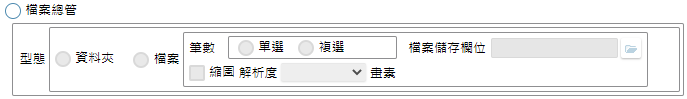
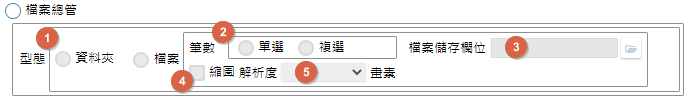
元件加註_開窗參照

diff --git a/8.10.2/IDE/Specification/OAPopup/README.md b/8.10.2/IDE/Specification/OAPopup/README.md
@@ -44,54 +44,173 @@
     * `(2)來源表格`
         * 用途說明
         * 規格說明
-            * 
-
-
-
-3-4-2. 來源表格: 依表單名稱, 顯示: 表單所用的.表頭檔區.邏輯表格料號(以下稱之:表單邏表料號)
-3-4-2. 過濾條件: 當表單料號有值時, 致能; 操作條件式通則, 限定:表單邏表料號
-3-4-3. 傳遞參數: 當表單料號有值時, 致能; 操作開窗傳遞參數通則, 限定:開啟表單料號
-3-4-3-1. 同名對應:
-依參數名稱比對元件名稱, 預設給同名元件
-無同名元件 或 給值內容不為空值, 給值類別、給值內容皆不異動
-有同名元件 且 給值內容為空值, 給值類型給值表單元件、給值內容給值同名元件
-3-4-4. 勾選方式:
-3-4-4-1. 勾選限制筆數選項: 單選/複選, 預設單選
-3-4-4-2. 限定勾選: 預設=false
-3-4-4-3. 新增初始值: 預設=false，勾選限制筆數=複選 ,才致能; 否則除能;
-3-4-5.勾選帶回欄位
-3-4-4-0. 開啟表單區塊: 開單啟選項=開啟表單, 才致能; 否則除能;
-3-4-4-1. 接收欄位: 挑選表單元件通則, 過濾:駐留表單料號。若元件的 (個資加密=true 且 個資解密=false) 或 密碼處理=true，則該元件顯示紅色字體
-3-4-4-2. 來源欄位: 挑選表單元件通則, 過濾:開啟表單料號。若元件的 (個資加密=true 且 個資解密=false) 或 密碼處理=true，則該元件顯示紅色字體
-3-4-4-3. 剃除已存: 勾選筆數=複選，才致能
-3-4-4-4. 主動更新:預設=false
-3-4-6.複寫資料表格
-3-4-6-0. 勾選筆數選項=複選, 才致能; 否則除能;
-3-4-6-1. 欄位名: 挑選表單元件通則, 過濾:駐留表單料號。若元件的 (個資加密=true 且 個資解密=false) 或 密碼處理=true，則該元件顯示紅色字體
+            * 無條件除能
+            * 依`(1)表單名稱`所挑選的表單帶入相對應的資料區檢視表
+                * 當`表單類型`不為條件多筆, 則顯示表頭資料區的檢視表; 否則顯示表身資料區的檢視表
+    * `(3)過濾條件`
+        * 用途說明
+        * 規格說明
+            * 當`視窗內容`=開啟表單, 則致能, 否則除能
+            * 參照 [操作條件式通則][link_ruledialog1], 限定:`(2)來源表格`, 回傳: 條件ID
+    * `(4)傳遞參數表格`
+        * 用途說明
+        * 規格說明
+            * 當`視窗內容`=開啟表單, 則致能, 否則除能
+            * 參照 [操作表格記錄通則][link_rulebutton3]
+    * `(5)傳遞參數項次`
+        * 用途說明
+        * 規格說明
+            * 依序給流水號
+    * `(6)參數名稱`
+        * 用途說明
+        * 規格說明
+            * 當`視窗內容`=開啟表單, 則致能, 否則除能
+            * 參照 [挑選參數通則][link_ruledialog9], 依指定的`(1)表單名稱`中, 進行參數挑選, 回傳: 參數型態
+    * `(7)載入參數名`
+        * 用途說明
+        * 規格說明
+            * 當`視窗內容`=開啟表單, 則致能, 否則除能
+            * 依`(1)表單名稱`取得[表單加註_基本設定][link_FormAnnotation]中的`接收參數`載入`(4)傳遞參數表格`中的`(6)參數名稱`、`(8)參數型態`
+            * 依`(1)表單名稱`及`(6)參數名稱`至[表單加註_基本設定][link_FormAnnotation]判斷, 不存在`(4)傳遞參數表格`中, 則新增
+            * 依`(1)表單名稱`及`(6)參數名稱`至[表單加註_基本設定][link_FormAnnotation]判斷, 於`(4)傳遞參數表格`中存在無效參數, 則刪除
+    * `(8)型態`
+        * 用途說明
+        * 規格說明
+            * 無條件除能
+            * 顯示[表單加註_基本設定][link_FormAnnotation]中的`接收參數型態`
+            * 型態選項 文字/數字/日期/邏輯
+    * `(9)參數類別`
+        * 用途說明
+        * 規格說明
+            * 當`視窗內容`=開啟表單, 則致能, 否則除能
+            * 選項 表單元件/固定值/參數
+    * `(10)參數體`
+        * 用途說明
+        * 規格說明
+            * 當`視窗內容`=開啟表單, 則致能, 否則除能
+            * `(9)參數類別`=固定值, 由使用者自行輸入
+            * `(9)傳遞型態`=表單元件, 參照 [挑選表單元件通則][link_ruledialog7], 限定: 本表單下的元件, 進行挑選, 回傳: 表單元件
+            * `(9)傳遞型態`=表單參數, 參照 [挑選參數通則][link_ruledialog9], 限定: 本表單下的參數, 進行挑選, 回傳: 表單參數
+    * `(11)同名對應鍵`
+        * 用途說明
+        * 規格說明
+            * 當`視窗內容`=開啟表單, 則致能, 否則除能
+            * 依`(6)參數名稱`比對元件名稱, 預設給同名元件
+            * 無同名元件 或 `(10)傳遞內容`不為空值, `(9)傳遞型態`、`(10)傳遞內容`皆不異動
+            * 有同名元件 且 `(10)傳遞內容`為空值, `(9)傳遞型態`給值表單元件、`(10)傳遞內容`給值同名元件
+    * `(12)勾選筆數`
+        * 用途說明
+        * 規格說明
+            * 當`視窗內容`=開啟表單, 則致能, 否則除能
+            * 選項 單選/複選
+            * 若選項=單選, 則刪除`(21)複寫資料表格`的記錄
+    * `(13)限定勾選`
+        * 用途說明
+        * 規格說明
+            * 當`視窗內容`=開啟表單, 則致能, 否則除能
+            * 預設 未勾選
+    * `(14)新增初始值`
+        * 用途說明
+        * 規格說明
+            * 當`視窗內容`=開啟表單 且 `(12)勾選筆數`=複選, 則致能, 否則除能
+            * 預設 未勾選
+    * `(15)勾選帶回表格`
+        * 用途說明
+        * 規格說明
+            * 當`視窗內容`=開啟表單, 則致能, 否則除能
+            * 參照 [操作表格記錄通則][link_rulebutton3]
+    * `(16)勾選帶回項次`
+        * 用途說明
+        * 規格說明
+            * 依序給流水號
+    * `(17)接收欄位`
+        * 用途說明
+        * 規格說明
+            * 當`視窗內容`=開啟表單, 則致能, 否則除能
+            * 參照 [挑選表單元件通則][link_ruledialog7], 限定: 本表單下的元件, 進行挑選, 回傳: 表單元件
+            * 參照 [個資加密提示通則][link_ruleother11]
+    * `(18)來源欄位`
+        * 用途說明
+        * 規格說明
+            * 當`視窗內容`=開啟表單, 則致能, 否則除能
+            * 參照 [挑選表單元件通則][link_ruledialog7], 限定: `(1)表單名稱`下的元件, 進行挑選, 回傳: 表單元件
+            * 參照 [個資加密提示通則][link_ruleother11]
+    * `(19)剔除已存`
+        * 用途說明
+        * 規格說明
+            * 當`視窗內容`=開啟表單 且 `(12)勾選筆數`=複選, 則致能, 否則除能
+            * 預設 未勾選
+    * `(20)主動更新`
+        * 用途說明
+        * 規格說明
+            * 當`視窗內容`=開啟表單, 則致能, 否則除能
+            * 預設 未勾選
+    * `(21)複寫資料表格`
+        * 用途說明
+        * 規格說明
+            * 當`視窗內容`=開啟表單 且 `(12)勾選筆數`=複選, 則致能, 否則除能
+            * 參照 [操作表格記錄通則][link_rulebutton3]
+    * `(22)複寫資料項次`
+        * 用途說明
+        * 規格說明
+            * 依序給流水號
+    * `(23)複寫欄位`
+        * 用途說明
+        * 規格說明
+            * 當`視窗內容`=開啟表單 且 `(12)勾選筆數`=複選, 則致能, 否則除能
+            * 參照 [挑選表單元件通則][link_ruledialog7], 限定: 本表單下的元件, 進行挑選, 回傳: 表單元件
+            * 參照 [個資加密提示通則][link_ruleother11]
                 
 * <p id="fieldbreak3" style="color:blue;font-weight:bold">檔案總管</p>
 
     ![pic][image_fieldbreak3]
-    * `(1)欄位名稱`
+    * `(1)型態`
         * 用途說明
         * 規格說明
-
-
-
-
-
+            * 當`視窗內容`=檔案總管, 則致能, 否則除能
+            * 選項 資料夾/檔案; 預設 資料夾
+    * `(2)勾選檔案筆數`
+        * 用途說明
+        * 規格說明
+            * 當`(1)型態`=檔案, 則致能, 否則除能
+            * 選項 單選/複選; 預設 單選
+    * `(3)檔案儲存欄位`
+        * 用途說明
+        * 規格說明
+            * 當`(1)型態`=檔案, 則致能, 否則除能
+            * 參照 [挑選表單元件通則][link_ruledialog7], 限定: 本表單下的元件, 進行挑選, 回傳: 表單元件
+            * 參照 [個資加密提示通則][link_ruleother11]
+    * `(4)檔案縮圖`
+        * 用途說明
+        * 規格說明
+            * 當`(1)型態`=檔案, 則致能, 否則除能
+            * 預設 未勾選
+    * `(5)檔案解析度`
+        * 用途說明
+        * 規格說明
+            * 當`(1)型態`=檔案 且 `(4)檔案縮圖`=勾選, 則致能, 否則除能
+            * 選項 1600 * 1200/1024 * 768/800 * 600/640 * 480/320 * 240; 預設 640 * 480
 
 ## <div id="save-action">儲存檢控</div>
 * 不允空白檢控, 規則參照 [存回不允空白檢控通則][link_ruleother7]
     * [基本][link_fieldbreak1]
-        * `內容處理`必擇一, 不允空白
-        * `內容處理`=固定值, `固定值` 不允空白
-        * `內容處理`=欄位組合, `欄位組合` 不允空白
-        * `內容處理`=被突顯, `被突顯`、`字體顏色` 不允空白
-        * `內容處理`=僅變更顏色, `字體顏色`、`背景顏色` 不允空白
+        * `視窗內容`必擇一, 不允空白
+    * [開啟表單][link_fieldbreak2]
+        * `表單名稱`、`來源表格`, 不允空白
+        * 當`傳遞參數表格`有記錄時, `參數名稱`、`參數類別`、`參數體`, 不允空白
+        * 當`勾選帶回表格`有記錄時, `接收欄位`、`來源欄位`, 不允空白
+        * 當`複寫資料表格`有記錄時, `複寫欄位`, 不允空白
+    * [檔案總管][link_fieldbreak3]
+        * `檔案儲存欄位`, 不允空白
+        * 當`檔案縮圖`有勾選, `檔案解析度`, 不允空白
+
+* 以下欄位符合條件時, 顯示訊息盒, 顯示規則參照 [存回其它檢控通則][link_ruleother8]
+    * [開啟表單][link_fieldbreak2]
+        * 當`視窗內容`=開啟表單, 則`勾選帶回表格`至少要有一筆記錄
+        * 當`視窗內容`=開啟表單, `勾選帶回表格`中, 若`接收欄位`為個資加密且非個資解密, 則`來源欄位`亦必需同等
+        * 當`視窗內容`=開啟表單, `勾選帶回表格`中, 若`接收欄位`為密碼處理, 則`來源欄位`亦必需同等
 
 ## <div id="other-desc">其它</div>
-* 若`內容處理`=固定值、欄位組合、填入行號 且 元件存在表格.PhyEncryptionFieldUsage(資料表加密欄位使用狀況), 則依元件料號, 刪除資料
 * [MAE加註儲存通則][link_ruleother5]
 
 <!-- 圖片 -->
@@ -104,12 +223,15 @@
 [link_ruleother1]:../RulesOther/README#ruleother1 "共用通則_其它/版面資訊通則"
 [link_rulebutton2]:../RulesButton/README#rulebutton2 "共用通則_按鍵操作/單據異動資料按鍵操作通則"
 [link_ruledialog1]:../RulesDialog/README#ruledialog1 "共用通則_開啟單據/操作條件式通則"
-
-
-
-[link_ruledialog2]:../RulesDialog/README#ruledialog2 "共用通則_開啟單據/使用多語詞庫通則"
-[link_ruledialog18]:../RulesDialog/README#ruledialog18 "共用通則_開啟單據/操作運算式通則"
-[link_ruleother5]:../RulesOther/README#ruleother5 "共用通則_其它/MAE加註儲存通則"
+[link_ruledialog6]:../RulesDialog/README#ruledialog6 "共用通則_開啟單據/挑選表單通則"
+[link_rulebutton3]:../RulesButton/README#rulebutton3 "共用通則_按鍵操作/操作表格記錄通則"
+[link_ruledialog9]:../RulesDialog/README#ruledialog9 "共用通則_開單操作/挑選參數通則"
+[link_FormAnnotation]:../Specification/FormAnnotation/README "表單加註_基本設定"
+[link_ruledialog7]:../RulesDialog/README#ruledialog7 "共用通則_開啟單據/挑選表單元件通則"
+[link_ruleother11]:../RulesOther/README#ruleother11 "共用通則_其它/個資加密提示通則"
 [link_fieldbreak1]:#fieldbreak1 "欄位說明/基本"
+[link_fieldbreak2]:#fieldbreak2 "欄位說明/開啟表單"
+[link_fieldbreak3]:#fieldbreak3 "欄位說明/檔案總管"
+[link_ruleother5]:../RulesOther/README#ruleother5 "共用通則_其它/MAE加註儲存通則"
 [link_ruleother7]:../RulesOther/README#ruleother7 "共用通則_其它/存回不允空白檢控通則"
 [link_ruleother8]:../RulesOther/README#ruleother8 "共用通則_其它/存回其它檢控通則"

diff --git a/8.10.2/IDE/Specification/OAInitial/README.md b/8.10.2/IDE/Specification/OAInitial/README.md
@@ -317,6 +317,7 @@
 <!-- 超連結 -->
 [link_ruleother1]:../RulesOther/README#ruleother1 "共用通則_其它/版面資訊通則"
 [link_rulebutton2]:../RulesButton/README#rulebutton2 "共用通則_按鍵操作/單據異動資料按鍵操作通則"
+[link_rulebutton3]:../RulesButton/README#rulebutton3 "共用通則_按鍵操作/操作表格記錄通則"
 [link_ruledialog1]:../RulesDialog/README#ruledialog1 "共用通則_開啟單據/操作條件式通則"
 [link_ruledialog7]:../RulesDialog/README#ruledialog7 "共用通則_開啟單據/挑選表單元件通則"
 [link_ruleother11]:../RulesOther/README#ruleother11 "共用通則_其它/個資加密提示通則"

diff --git a/8.10.2/IDE/Specification/OADisplayEmbed/Calendar.md b/8.10.2/IDE/Specification/OADisplayEmbed/Calendar.md
@@ -208,3 +208,5 @@
 [link_ruledialog8]:../RulesDialog/README#ruledialog8 "共用通則_開啟單據/挑選檢視表元件通則"
 [link_rulesbutton3]:../RulesButton/README#rulebutton3 "共用通則_其它/操作表格記錄通則"
 [link_ruleother7]:../RulesOther/README#ruleother7 "共用通則_其它/存回不允空白檢控通則"
+[link_rulebutton3]:../RulesButton/README#rulebutton3 "共用通則_按鍵操作/操作表格記錄通則"
+[link_fieldbreak1]:#fieldbreak1 "欄位說明/基本"

diff --git a/8.10.2/IDE/Specification/OADisplayEmbed/FileContainerControl.md b/8.10.2/IDE/Specification/OADisplayEmbed/FileContainerControl.md
@@ -263,3 +263,4 @@
 [link_ruledialog10]:../RulesDialog/README#ruledialog10 "共用通則_開啟單據/挑選全域變數通則"
 [link_ruledialog13]:../RulesDialog/README#ruledialog13 "共用通則_開啟單據/挑選表單按鍵通則"
 [link_ruleother7]:../RulesOther/README#ruleother7 "共用通則_其它/存回不允空白檢控通則"
+[link_ruledialog2]:../RulesDialog/README#ruledialog2 "共用通則_開啟單據/使用多語詞庫通則"
